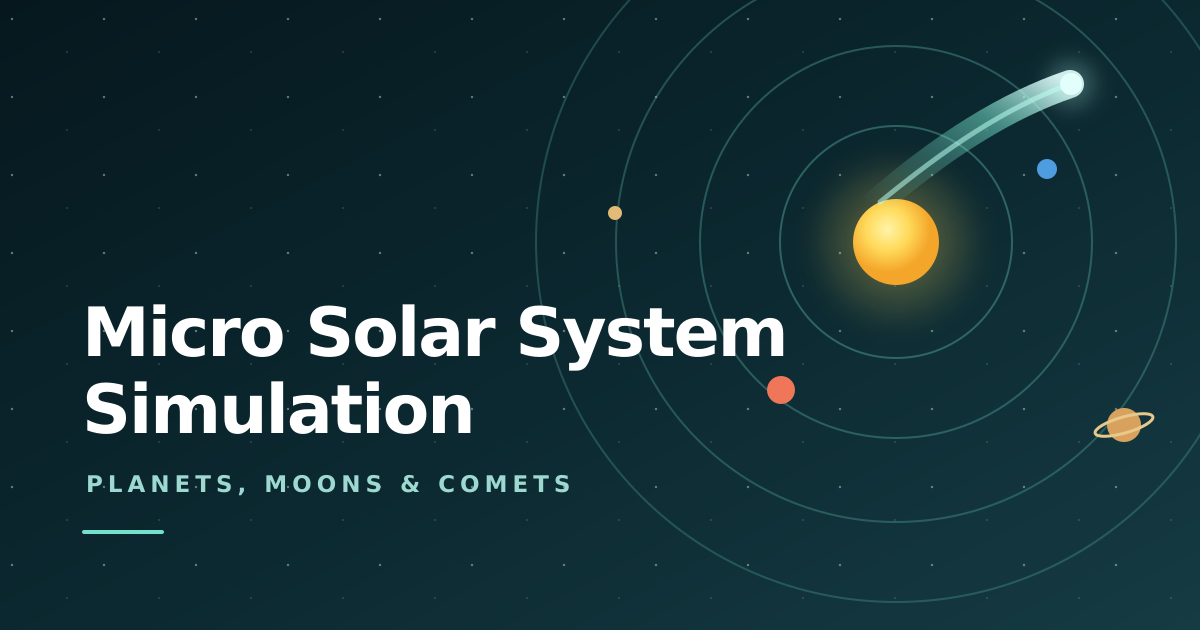
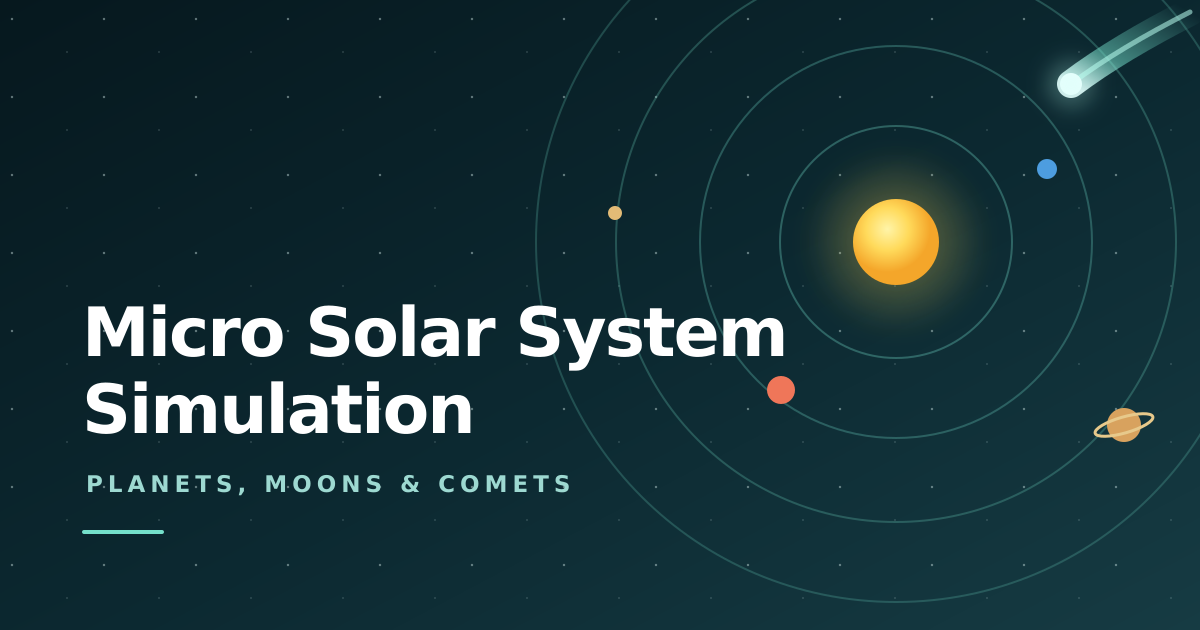
fix: correct comet tail and pin preview font

Changed region(s): [[0.74, 0.0, 1.0, 0.3016]]

diff --git a/src/staticAssets.test.ts b/src/staticAssets.test.ts
@@ -1,4 +1,6 @@
-import { readFileSync } from 'node:fs';
+import { execFileSync } from 'node:child_process';
+import { mkdtempSync, readFileSync, rmSync, writeFileSync } from 'node:fs';
+import { tmpdir } from 'node:os';
 import { join } from 'node:path';
 import { describe, expect, it } from 'vitest';
 
@@ -18,5 +20,48 @@ describe('static sharing assets', () => {
     expect(document.querySelector('parsererror')).toBeNull();
     expect(document.documentElement.getAttribute('viewBox')).toBe('0 0 64 64');
     expect(document.querySelector('[aria-label="Micro Solar System Simulation"]')).not.toBeNull();
+  });
+
+  it.each(['artwork/social-preview.svg', 'public/favicon.svg'])('points the comet tail away from the Sun in %s', (path) => {
+    const svg = readFileSync(join(process.cwd(), path), 'utf8');
+    const document = new DOMParser().parseFromString(svg, 'image/svg+xml');
+    const sun = document.querySelector('[data-body="sun"]');
+    const comet = document.querySelector('[data-body="comet"]');
+    const tail = document.querySelector('[data-comet-tail]');
+
+    if (!sun || !comet || !tail) throw new Error('Comet geometry markers are missing');
+
+    const sunX = Number(sun.getAttribute('cx'));
+    const sunY = Number(sun.getAttribute('cy'));
+    const cometX = Number(comet.getAttribute('cx'));
+    const cometY = Number(comet.getAttribute('cy'));
+    const tailStart = tail.getAttribute('d')?.match(/^M\s*([\d.]+)\s+([\d.]+)/);
+
+    if (!tailStart) throw new Error('Comet tail must start with an absolute move');
+
+    const distanceFromSun = (x: number, y: number) => Math.hypot(x - sunX, y - sunY);
+    expect(distanceFromSun(Number(tailStart[1]), Number(tailStart[2]))).toBeGreaterThan(
+      distanceFromSun(cometX, cometY),
+    );
+    expect(tail.getAttribute('d')?.trim().endsWith(`${cometX} ${cometY}`)).toBe(true);
+  });
+
+  it('reproduces the committed preview without relying on host fonts', () => {
+    const root = process.cwd();
+    const temporaryDirectory = mkdtempSync(join(tmpdir(), 'social-preview-'));
+    const output = join(temporaryDirectory, 'social-preview.png');
+    const fontConfig = join(temporaryDirectory, 'fonts.conf');
+    writeFileSync(fontConfig, '<?xml version="1.0"?><!DOCTYPE fontconfig SYSTEM "fonts.dtd"><fontconfig/>');
+
+    try {
+      execFileSync(process.execPath, [join(root, 'scripts/render-social-preview.mjs'), output], {
+        cwd: root,
+        env: { ...process.env, FONTCONFIG_FILE: fontConfig },
+        stdio: 'pipe',
+      });
+      expect(readFileSync(output)).toEqual(readFileSync(join(root, 'public/social-preview.png')));
+    } finally {
+      rmSync(temporaryDirectory, { recursive: true, force: true });
+    }
   });
 });